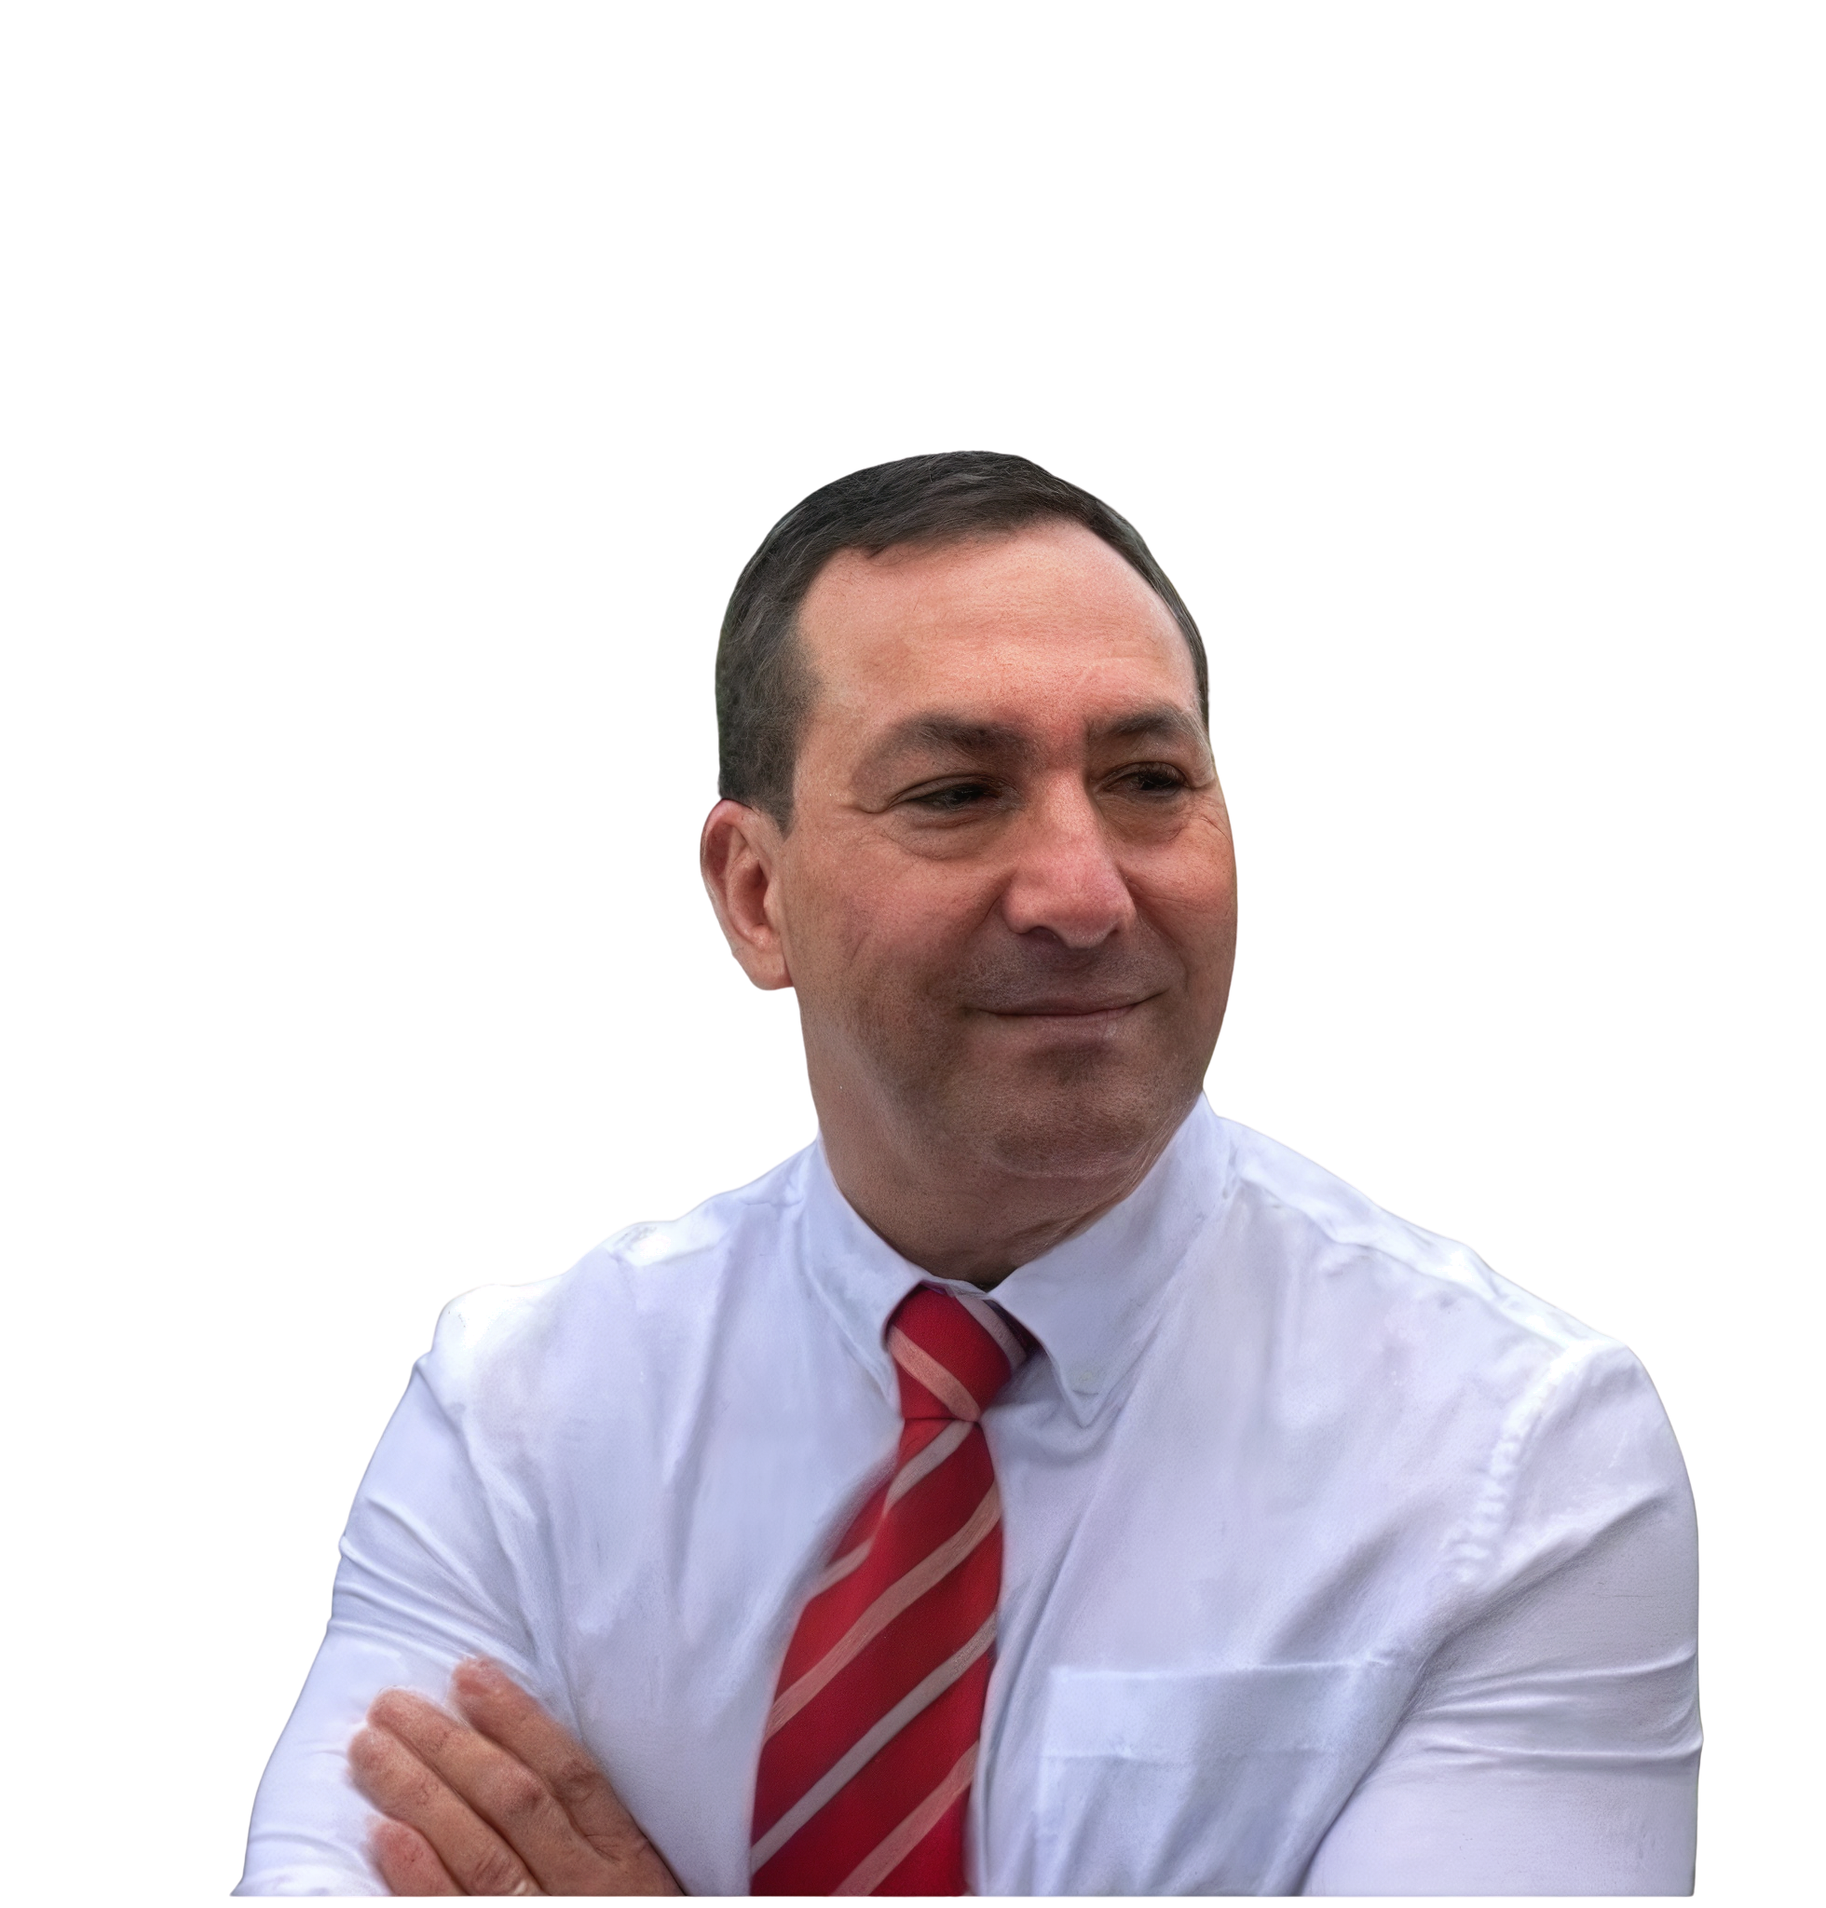
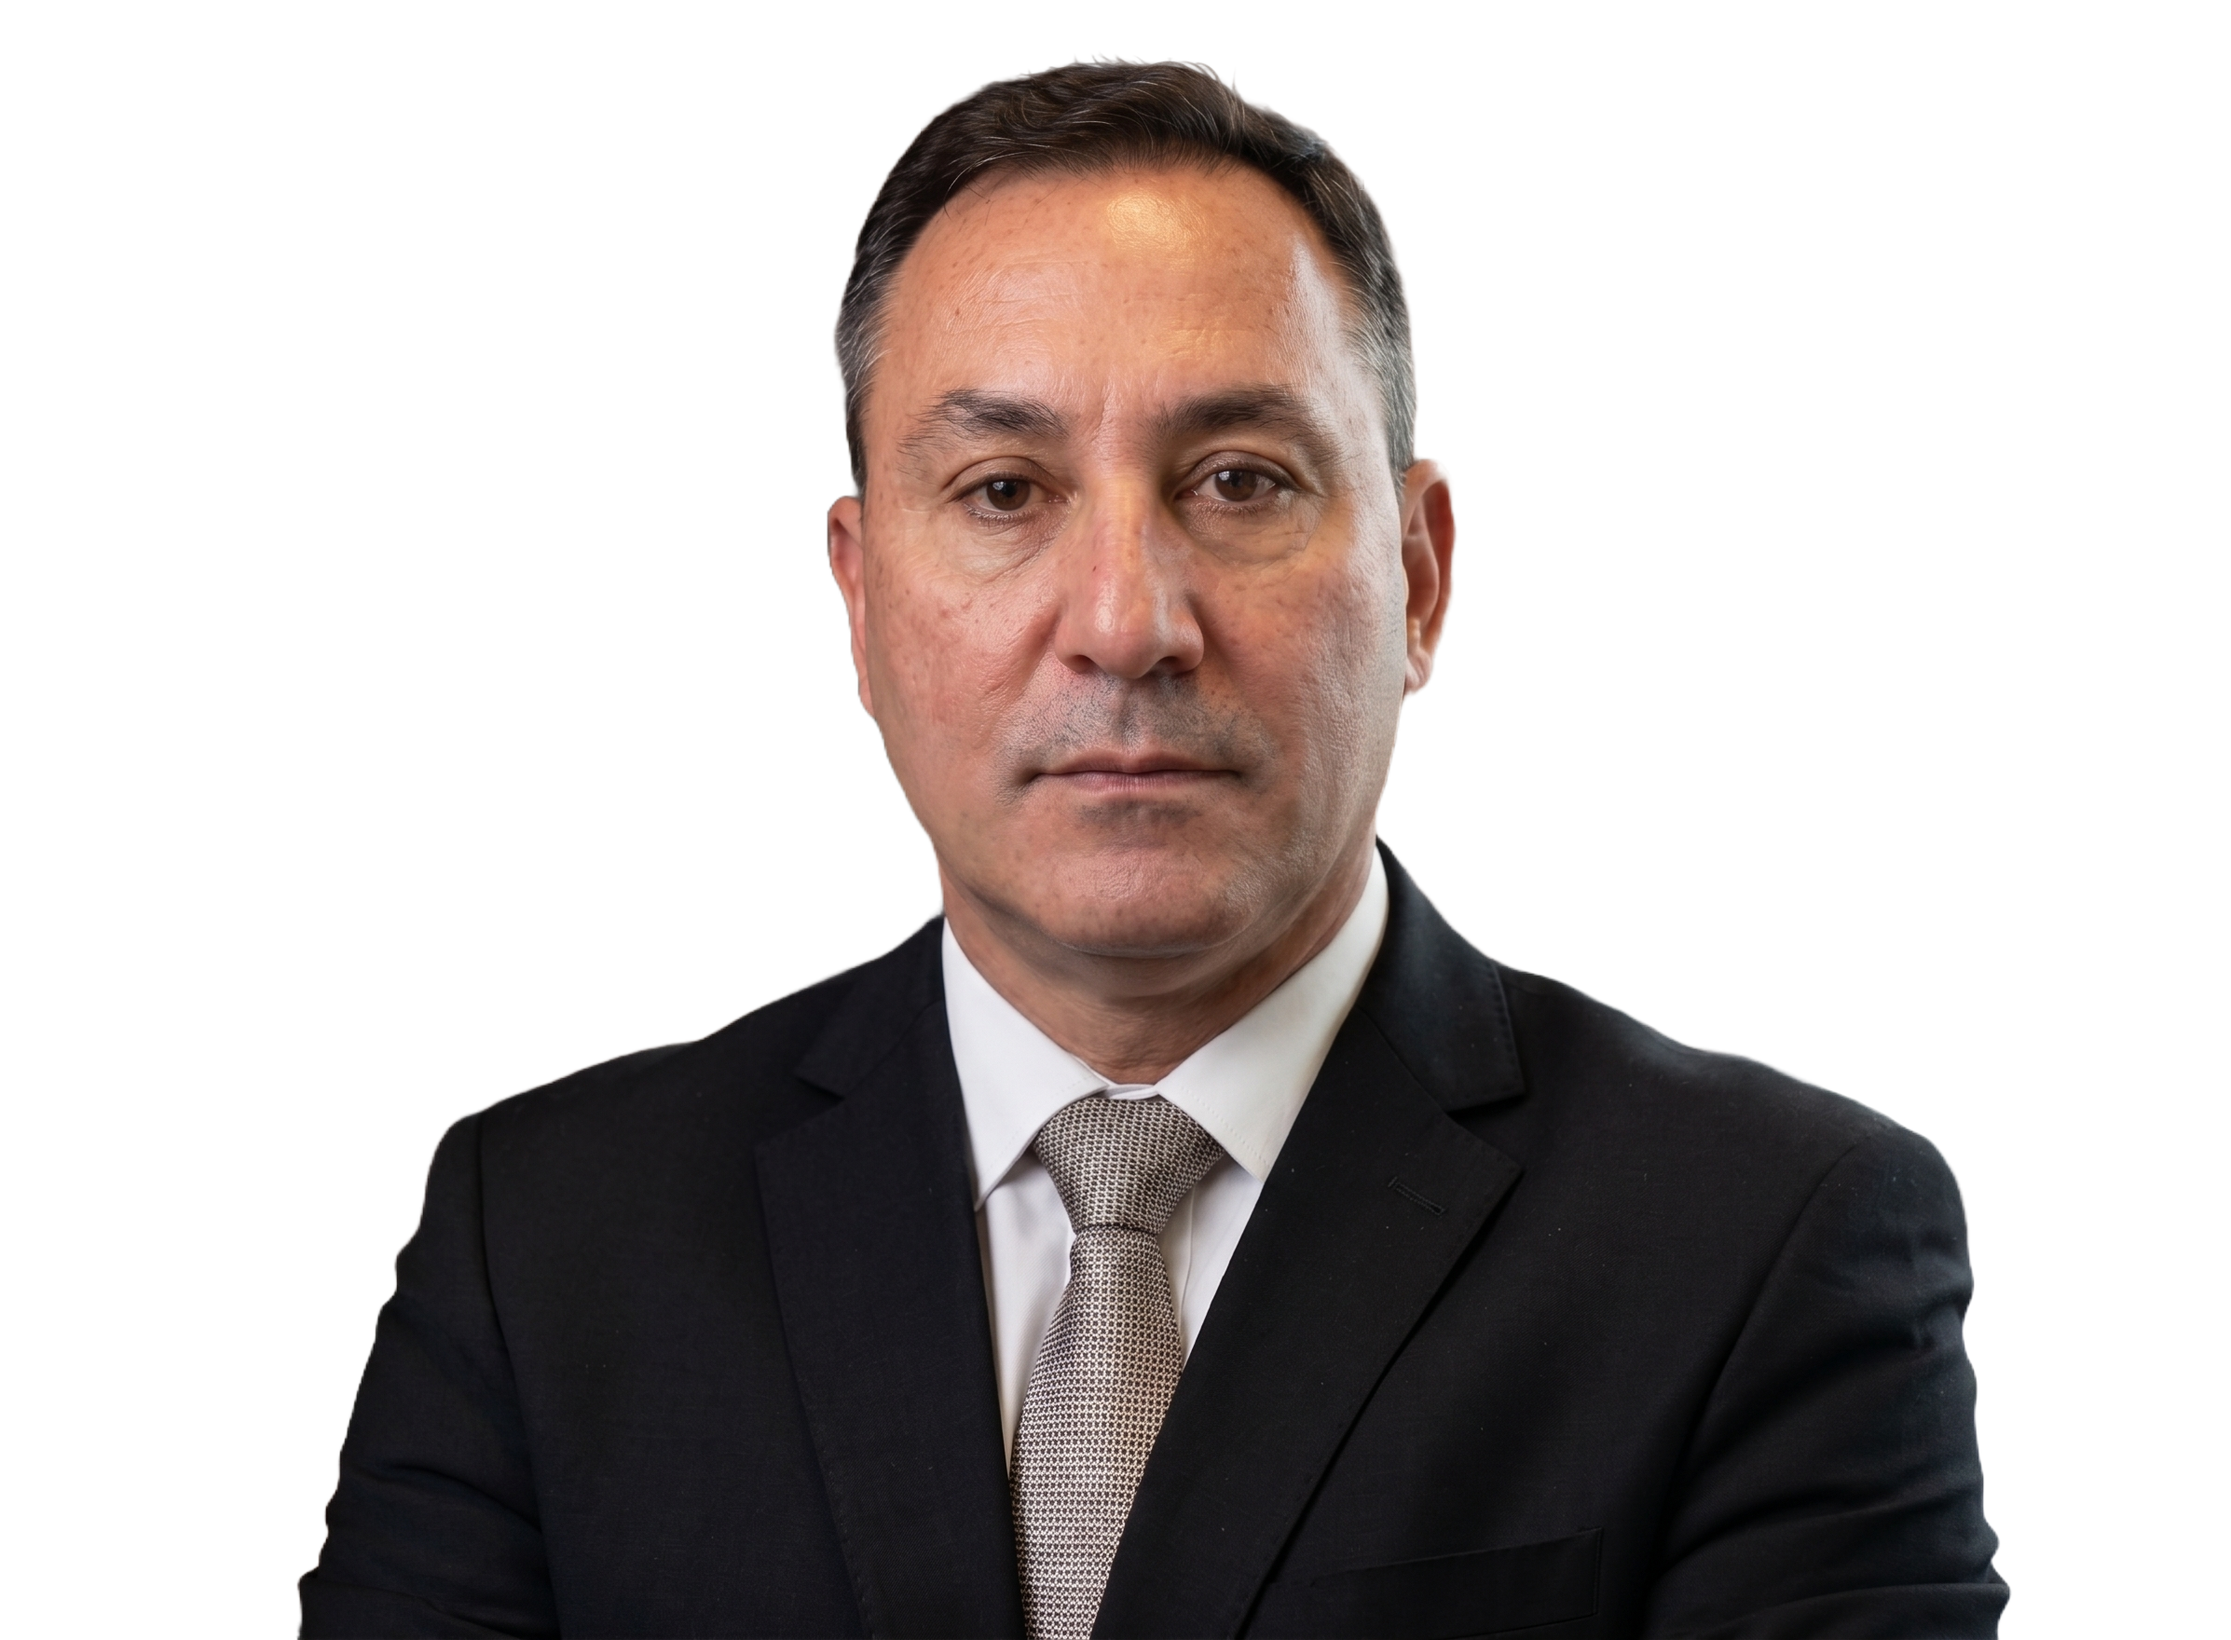
Atualiza foto e fundo do quadro de Paulo Cesar
Substitui foto placeholder pela foto oficial com terno e fundo transparente.
Troca fundo navy sólido por gradiente radial spotlight para contraste com o terno escuro.

diff --git a/index.html b/index.html
@@ -751,7 +751,7 @@ body {
   aspect-ratio: 3/4;
   max-height: 540px;
   overflow: hidden;
-  background: var(--navy-light);
+  background: radial-gradient(ellipse 130% 100% at 50% 20%, #1E3A5F 0%, #0D1F35 55%, #06111F 100%);
 }
 
 .about-photo-placeholder {
@@ -784,9 +784,10 @@ body {
 .about-photo-img {
   width: 100%;
   height: 100%;
-  object-fit: cover;
-  object-position: center top;
+  object-fit: contain;
+  object-position: center bottom;
   display: block;
+  filter: drop-shadow(0 0 20px rgba(255,255,255,0.06));
 }
 
 .about-photo-label {
